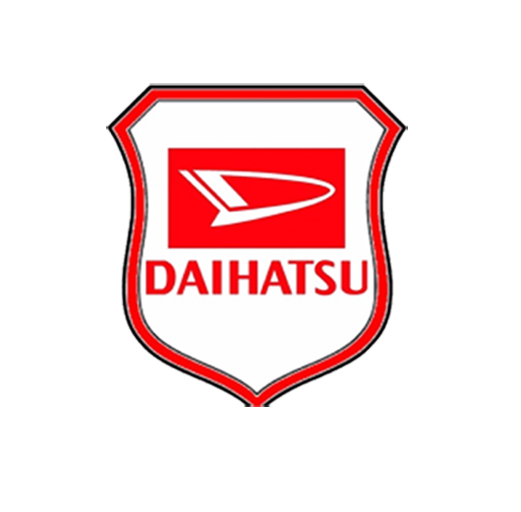
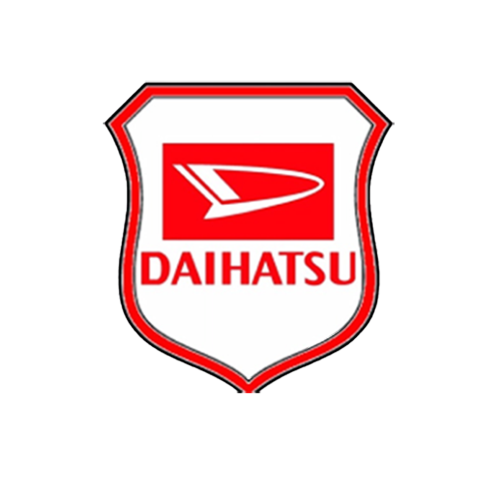
perubahan gambar splash screen

diff --git a/screens/Profile.js b/screens/Profile.js
@@ -9,7 +9,9 @@ const Tab = createMaterialTopTabNavigator();
 export default function Profile({ navigation, route }) {
   const [profiling, setProfiling] = useState({
     npk: "",
-    gol_darah:"",
+    gol_darah: "",
+    tempat_lahir:"",
+    tanggal_lahir:"",
     email: "",
     nama: "",
     kk: "",
@@ -72,6 +74,8 @@ export default function Profile({ navigation, route }) {
             setProfiling({
               npk: hasil.npk,
               gol_darah: hasil.gol_darah,
+              tempat_lahir: hasil.tempat_lahir,
+              tanggal_lahir: hasil.tanggal_lahir,
               email: hasil.email,
               nama: hasil.nama,
               kk: hasil.kk,
@@ -151,7 +155,10 @@ export default function Profile({ navigation, route }) {
             <Text style={styles.username}>WILAYAH</Text>
             <Text style={styles.name}>{profiling.wilayah}</Text>
             <Text style={styles.username}>TEMPAT, TANGGAL LAHIR</Text>
-            <Text style={styles.name}>{profiling.npk}</Text>
+            <Text style={styles.name}>
+              {profiling.tempat_lahir},
+              {profiling.tanggal_lahir}
+            </Text>
             <Text style={styles.username}>NOMOR KTP</Text>
             <Text style={styles.name}>{profiling.ktp}</Text>
             <Text style={styles.username}>NOMOR KK</Text>
@@ -230,6 +237,11 @@ const styles = StyleSheet.create({
     borderWidth: 3,
     borderColor: "#fff",
     borderStyle: "solid",
+    shadowColor: "#000",
+    shadowOffset: { width: 0, height: 1 },
+    shadowOpacity: 0.8,
+    shadowRadius: 2,
+    elevation: 5,
   },
   profileInfo: {
     marginLeft: 10,

diff --git a/screens/Splash.js b/screens/Splash.js
@@ -1,23 +1,17 @@
-import React, { Component , useEffect , useState } from 'react';
-import { View, Text , Image , ActivityIndicator , StyleSheet } from 'react-native';
+import React, { Component, useEffect, useState } from "react";
+import { View, Text, Image, ActivityIndicator, StyleSheet } from "react-native";
 
-import { StackActions } from '@react-navigation/native';
-export default function Splash({navigation,route})  {
+import { StackActions } from "@react-navigation/native";
+export default function Splash({ navigation, route }) {
   useEffect(() => {
-
     setTimeout(() => {
-      navigation.dispatch(StackActions.replace('Home'))
-    },9000)
-  },[])
+      navigation.dispatch(StackActions.replace("Home"));
+    }, 9000);
+  }, []);
 
-
-    return (
-      <View style={{flex: 1,
-        alignItems: 'center',
-        justifyContent: 'center',
-        backgroundColor: "#fff",}}>
-
-       <Image style={{height:250, width:250}} source={require("../src/img/Login.png")}></Image>
-      </View>
-    );
-  }
+  return (
+    <View style={{ flex: 1, alignItems: "center", justifyContent: "center", backgroundColor: "#fff" }}>
+      <Image style={{ height: 250, width: 250 }} source={require("../src/img/app_js.png")}></Image>
+    </View>
+  );
+}

diff --git a/src/component/styles.js b/src/component/styles.js
@@ -37,6 +37,7 @@ export default StyleSheet.create({
     justifyContent : "center",
     margin: windowWidth /  55,
     backgroundColor:"#fff",
+    
   },
   linkAbsen: {
     backgroundColor: "#00C19F",
